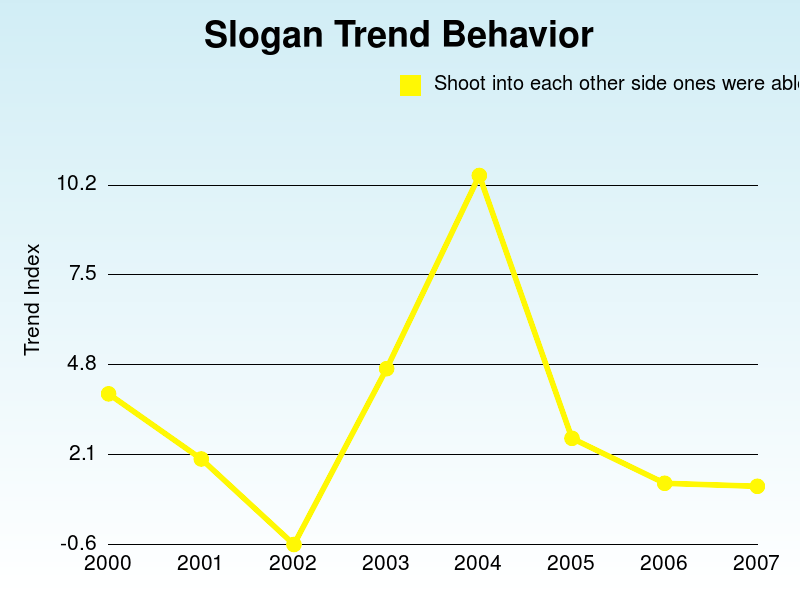
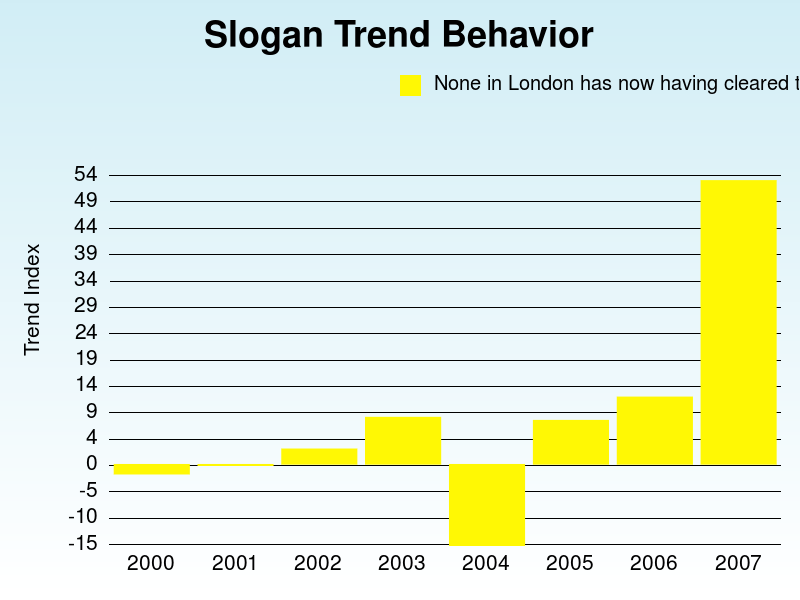
reformatted graphs

diff --git a/app/models/slogan.rb b/app/models/slogan.rb
@@ -65,14 +65,15 @@ class Slogan < ActiveRecord::Base
     series = []
     self.trend_coeffs.split("||").each { |point| series << point.to_f }
     g = Gruff::Bar.new
-    g.title = "Slogan Trend Behavior"
-    g.theme_37signals
+    g.title = self.body
+    # g.theme_37signals
+    g.theme_rails_keynote
     g.y_axis_label = "Trend Index"
-    g.y_axis_increment = 10
+    g.y_axis_increment = ((series.max - series.min) / 5).ceil
     g.labels = { 0 => '2000', 1 => '2001', 2 => '2002', 3 => '2003', 4 => '2004',
              5 => '2005', 6 => '2006', 7 => '2007' }
-    # g.data 'Year', (2000...2008).to_a
-    g.data self.body, series
+    g.data " ", series
+    g.hide_legend = true
     g.write("#{Rails.root.join('app', 'assets', 'images', "slogan#{self.id}")}.png")
   end
 end
